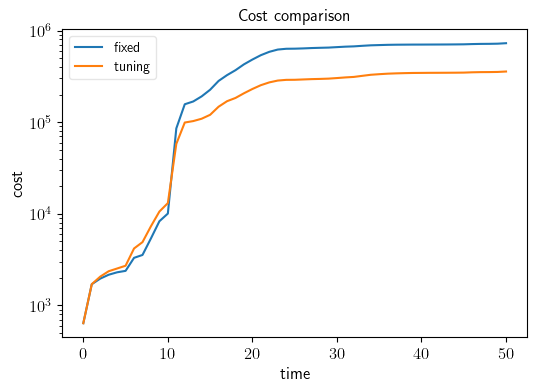
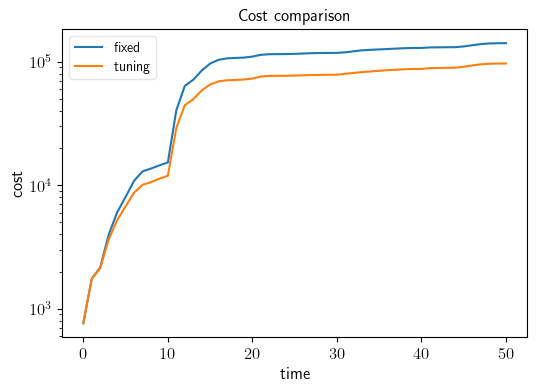
Code + Test dump

diff --git a/greedy_architecture_combined.py b/greedy_architecture_combined.py
@@ -47,7 +47,8 @@ class System:
             for k in self.simulation_parameters:
                 if k in simulation_parameters:
                     self.simulation_parameters[k] = simulation_parameters[k]
-        self.model_name = "model_n" + str(self.dynamics['number_of_nodes']) + "_rho"+str(np.round(self.dynamics['rho'], decimals=3)) + "_Tp" + str(self.simulation_parameters['T_predict'])
+        self.model_name = ''
+        self.model_rename()
         self.trajectory = {'X0': 10*np.identity(self.dynamics['number_of_nodes']),
                            'x': [], 'x_estimate': [], 'X_enhanced': [], 'u': [], 'error': [],
                            'cost': {'running': 0, 'switching': 0, 'control': 0, 'stage': 0, 'predicted': [], 'true': []},
@@ -64,6 +65,12 @@ class System:
         # if additive is not None:
         #     self.initialize_additive_noise(additive)
         # self.enhanced_system_matrix()
+
+    def model_rename(self, new_name=None):
+        if new_name is None:
+            self.model_name = "model_n" + str(self.dynamics['number_of_nodes']) + "_rho" + str(np.round(self.dynamics['rho'], decimals=3)) + "_Tp" + str(self.simulation_parameters['T_predict'])
+        else:
+            self.model_name = new_name
 
     def graph_initialize(self, graph_model):
         connected_network_check = False
@@ -99,8 +106,8 @@ class System:
         architecture_model = {'min': 1, 'max': self.dynamics['number_of_nodes'],
                               'cost': {'Q': np.identity(self.dynamics['number_of_nodes']),
                                        'R1': np.identity(self.dynamics['number_of_nodes']),
-                                       'R2': 1,
-                                       'R3': 1},
+                                       'R2': 0,
+                                       'R3': 0},
                               'active': [],
                               'matrix': np.zeros_like(self.dynamics['A']),
                               'indicator': np.zeros(self.dynamics['number_of_nodes']),
@@ -481,6 +488,38 @@ class System:
         # ax_Bhist.tick_params(axis="x", labelbottom=False)
         fig.suptitle(self.model_name)
         # ax_Bhist.set_xticks(labels=None)
+        if f_name is None:
+            f_name = "Images/"+self.model_name+"_architecture_history.png"
+        plt.savefig(f_name)
+        plt.show()
+
+    def plot_architecture_history2(self, f_name=None):
+        fig = plt.figure()
+        grid = fig.add_gridspec(2, 1)
+        ax_B = fig.add_subplot(grid[0, 0])
+        ax_C = fig.add_subplot(grid[1, 0], sharex=ax_B)
+
+        B_list = {'active': [], 'time': []}
+        C_list = {'active': [], 'time': []}
+        for t in range(0, len(self.architecture['B']['history'])):
+            for i in self.architecture['B']['history'][t]:
+                B_list['active'].append(i)
+                B_list['time'].append(t)
+            for i in self.architecture['C']['history'][t]:
+                C_list['active'].append(i)
+                C_list['time'].append(t)
+
+        ax_B.scatter(B_list['time'], B_list['active'])
+        ax_C.scatter(C_list['time'], C_list['active'])
+
+        ax_B.set_title('Actuator Architecture History')
+        ax_C.set_title('Sensor Architecture History')
+        ax_B.tick_params(axis="x", labelbottom=False)
+        ax_C.set_xlabel('time')
+        ax_B.set_ylabel('Node position')
+        ax_C.set_ylabel('Node position')
+        fig.suptitle(self.model_name)
+
         if f_name is None:
             f_name = "Images/"+self.model_name+"_architecture_history.png"
         plt.savefig(f_name)

diff --git a/casetest_greedy_architecture_combined_multistep.py b/casetest_greedy_architecture_combined_multistep.py
@@ -4,56 +4,62 @@ import numpy as np
 from copy import deepcopy as dc
 import shelve
 
+datadump_folderpath = 'C:/Users/kxg161630/Box/KarthikGanapathy_Research/SpeedyGreedyAlgorithm/DataDump/'
+
 if __name__ == "__main__":
+
+    print('Reading generated model...')
     n = 50
-    rho = 1.5
-    Tp = 30
-    n_arch = 2
+    rho = 2
+    Tp = 10
 
-    S = gac.System(graph_model={'number_of_nodes': n, 'rho': rho}, architecture={'rand': n_arch}, simulation_parameters={'T_sim': 50, 'T_predict': Tp})
+    model_name = 'gen_model_n'+str(n)+'_rho'+str(rho)+'_Tp'+str(Tp)
+    shelve_file = datadump_folderpath + model_name
+    shelve_data = shelve.open(shelve_file)
+    S = shelve_data['System']
+    shelve_data.close()
+    if not isinstance(S, gac.System):
+        raise Exception('System model error')
 
-    S.architecture['B']['max'] = n_arch
-    S.architecture['C']['max'] = n_arch
-    S.architecture['B']['min'] = n_arch
-    S.architecture['C']['min'] = n_arch
+    print('Retrieved Model: ', S.model_name)
 
-    S.architecture['B']['cost']['R2'] = 0
-    S.architecture['C']['cost']['R2'] = 0
-    S.architecture['B']['cost']['R3'] = 0
-    S.architecture['C']['cost']['R3'] = 0
+    # Optimal T_sim update:
+    # S.simulation_parameters['T_predict'] = 30
+    # S.model_rename()
 
-    T_sim = dc(S.simulation_parameters['T_sim'])+1
-
-    # Simulating large disturbances at particular nodes
-    for i in range(0, T_sim, 5):
+    T_sim = dc(S.simulation_parameters['T_sim']) + 1
+    # Simulating regular large disturbances at random nodes
+    for i in range(0, T_sim, 10):
         S.noise['noise_sim'][i][np.random.choice(2*n, 5)] = 20
 
-    print('Model: ', S.model_name)
+    # print('Model: ', S.model_name)
 
-    print('\n Fixed architecture')
+    print('\n Fixed architecture simulation')
     S_fixed = dc(S)
-    S_fixed.model_name = S_fixed.model_name + "_fixed"
+    S_fixed.model_rename(S.model_name + "_fixed")
     for t in range(0, T_sim):
         print("\r t:" + str(t), end="")
         S_fixed.cost_wrapper_enhanced_true()
         S_fixed.system_one_step_update_enhanced(t)
 
-    print('\n Self-Tuning architecture')
+    print('\n Self-Tuning architecture simulation')
     S_tuning = dc(S)
-    S_tuning.model_name = S_tuning.model_name + "_selftuning"
+    S_tuning.model_rename(S.model_name + "_selftuning")
     for t in range(0, T_sim):
         print("\r t:" + str(t), end="")
         S_tuning.cost_wrapper_enhanced_true()
         S_tuning.system_one_step_update_enhanced(t)
         S_tuning = dc(gac.greedy_simultaneous(S_tuning, iterations=1, changes_per_iteration=1)['work_set'])
 
-    print('\n\n Data shelving')
-    shelve_file = 'DataDumps/comparison_fixed_vs_selftuning_' + S.model_name
-    print(shelve_file)
+    print('\n\n Trajectory data shelving')
+
+    shelve_file = datadump_folderpath + S.model_name
+    print('Deleting old data...')
     for f_type in ['.bak', '.dat', '.dir']:
         if os.path.exists(shelve_file + f_type):
             os.remove(shelve_file + f_type)
 
+    print('Shelving new data...')
     shelve_data = shelve.open(shelve_file)
     for k in ['System', 'Fixed', 'SelfTuning']:
         if k in shelve_data:
@@ -62,5 +68,7 @@ if __name__ == "__main__":
     shelve_data['Fixed'] = S_fixed
     shelve_data['SelfTuning'] = S_tuning
     shelve_data.close()
+
+    print('Shelving done:', shelve_file)
 
     print('\n Done')

diff --git a/casetest_plot.py b/casetest_plot.py
@@ -1,14 +1,16 @@
 import shelve
 import greedy_architecture_combined as gac
 
+datadump_folderpath = 'C:/Users/kxg161630/Box/KarthikGanapathy_Research/SpeedyGreedyAlgorithm/DataDump/'
+
 # Plot from data dump code
 print('\n Data reading')
 
 n = 50
 rho = 1.5
-Tp = 30
+Tp = 10
 
-shelve_file = 'DataDumps/comparison_fixed_vs_selftuning_model_n'+str(n)+'_rho'+str(rho)+'_Tp'+str(Tp)
+shelve_file = datadump_folderpath+'model_n'+str(n)+'_rho'+str(rho)+'_Tp'+str(Tp)
 try:
     shelve_data = shelve.open(shelve_file)
 except (FileNotFoundError, IOError):
@@ -27,6 +29,6 @@ if not isinstance(S, gac.System) or not isinstance(S_tuning, gac.System) or not 
     raise Exception('Data type mismatch')
 
 print('\n Plotting')
-S_tuning.plot_architecture_history()
+S_tuning.plot_architecture_history2()
 gac.trajectory_plots({'fixed': S_fixed.trajectory['x'], 'tuning': S_tuning.trajectory['x']}, {'fixed': S_fixed.trajectory['error'], 'tuning': S_tuning.trajectory['error']}, S.model_name)
 gac.cost_plots({'fixed': S_fixed.trajectory['cost']['true'], 'tuning': S_tuning.trajectory['cost']['true']}, S.model_name)

diff --git a/casetest_model_gen.py b/casetest_model_gen.py
@@ -1,0 +1,34 @@
+import greedy_architecture_combined as gac
+import shelve
+
+datadump_folderpath = 'C:/Users/kxg161630/Box/KarthikGanapathy_Research/SpeedyGreedyAlgorithm/DataDump/'
+
+if __name__ == "__main__":
+
+    print('Model Generation')
+
+    n = 50
+    rho = 2
+    Tp = 10
+    n_arch = 5
+
+    S = gac.System(graph_model={'number_of_nodes': n, 'rho': rho}, architecture={'rand': n_arch}, simulation_parameters={'T_sim': 100, 'T_predict': Tp})
+
+    S.architecture['B']['max'] = n_arch
+    S.architecture['C']['max'] = n_arch
+    S.architecture['B']['min'] = n_arch
+    S.architecture['C']['min'] = n_arch
+
+    S.architecture['B']['cost']['R2'] = 0
+    S.architecture['C']['cost']['R2'] = 0
+    S.architecture['B']['cost']['R3'] = 0
+    S.architecture['C']['cost']['R3'] = 0
+
+    print('Model name: ', S.model_name)
+
+    shelve_filename = datadump_folderpath + 'gen_' + S.model_name
+    shelve_data = shelve.open(shelve_filename)
+    shelve_data['System'] = S
+    shelve_data.close()
+
+    print('Model shelve done: ', shelve_filename)
